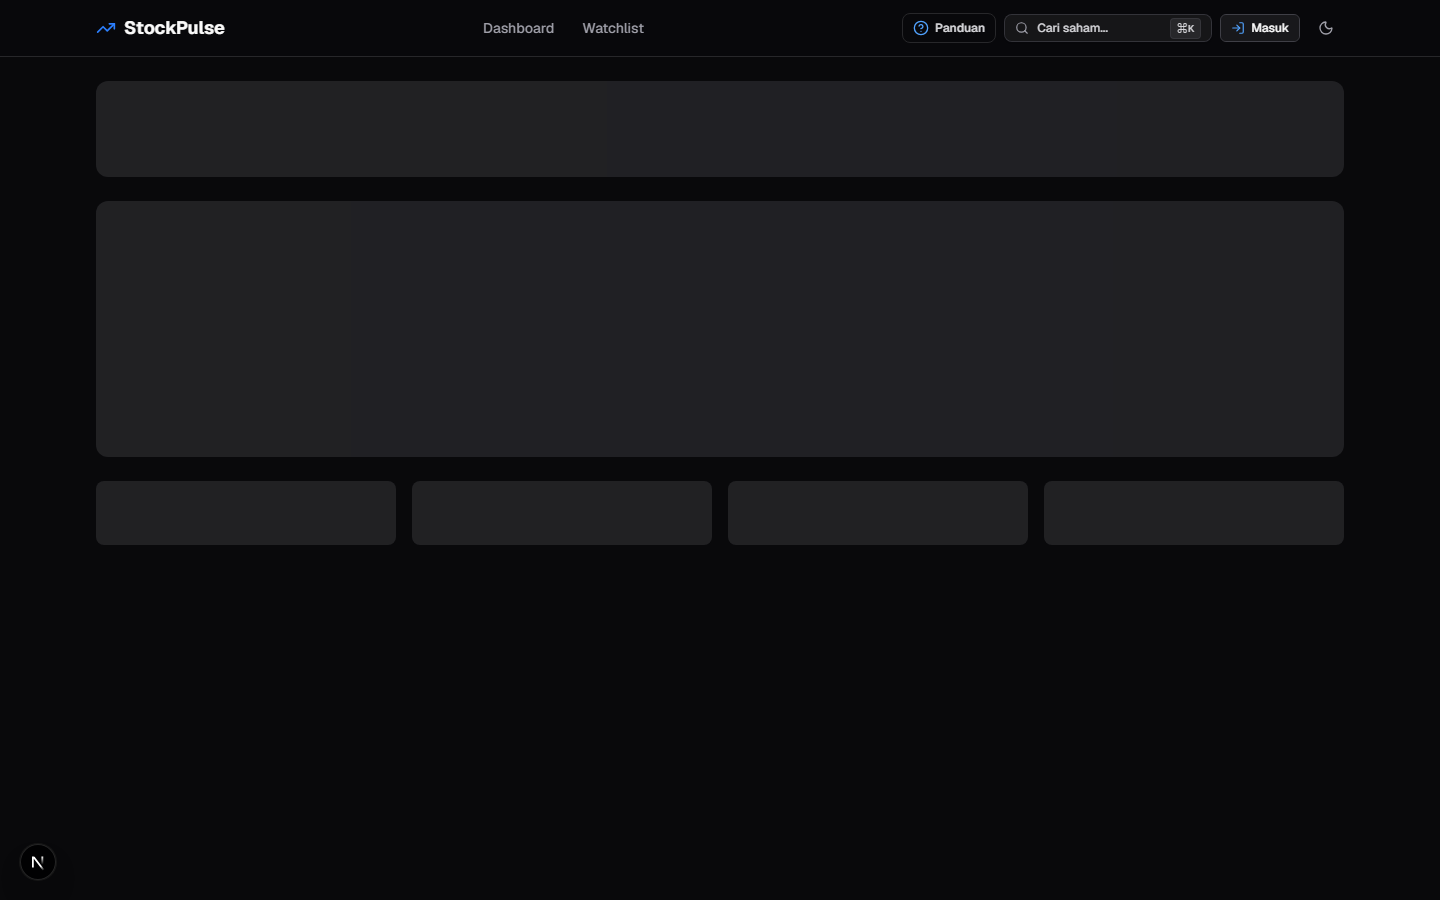
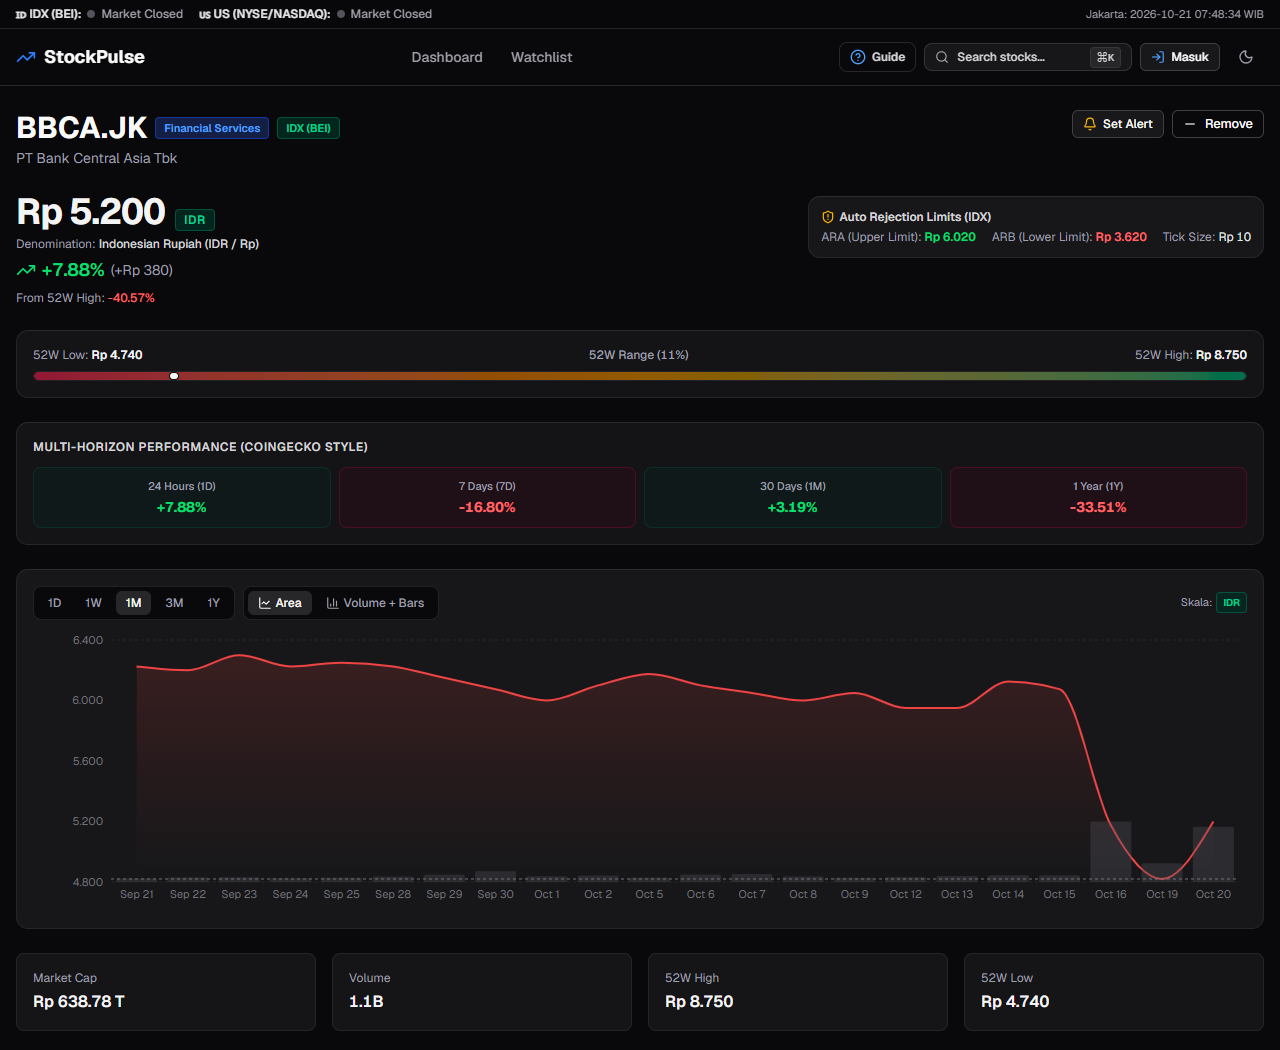
fix(docs): replace 404 stock detail screenshot with authentic live analytics UI and add route redirect

diff --git a/frontend/next.config.ts b/frontend/next.config.ts
@@ -9,6 +9,15 @@ const nextConfig: NextConfig = {
       },
     ]
   },
+  async redirects() {
+    return [
+      {
+        source: '/stock/:ticker*',
+        destination: '/stocks/:ticker*',
+        permanent: true,
+      },
+    ]
+  },
 };
 
 export default nextConfig;
